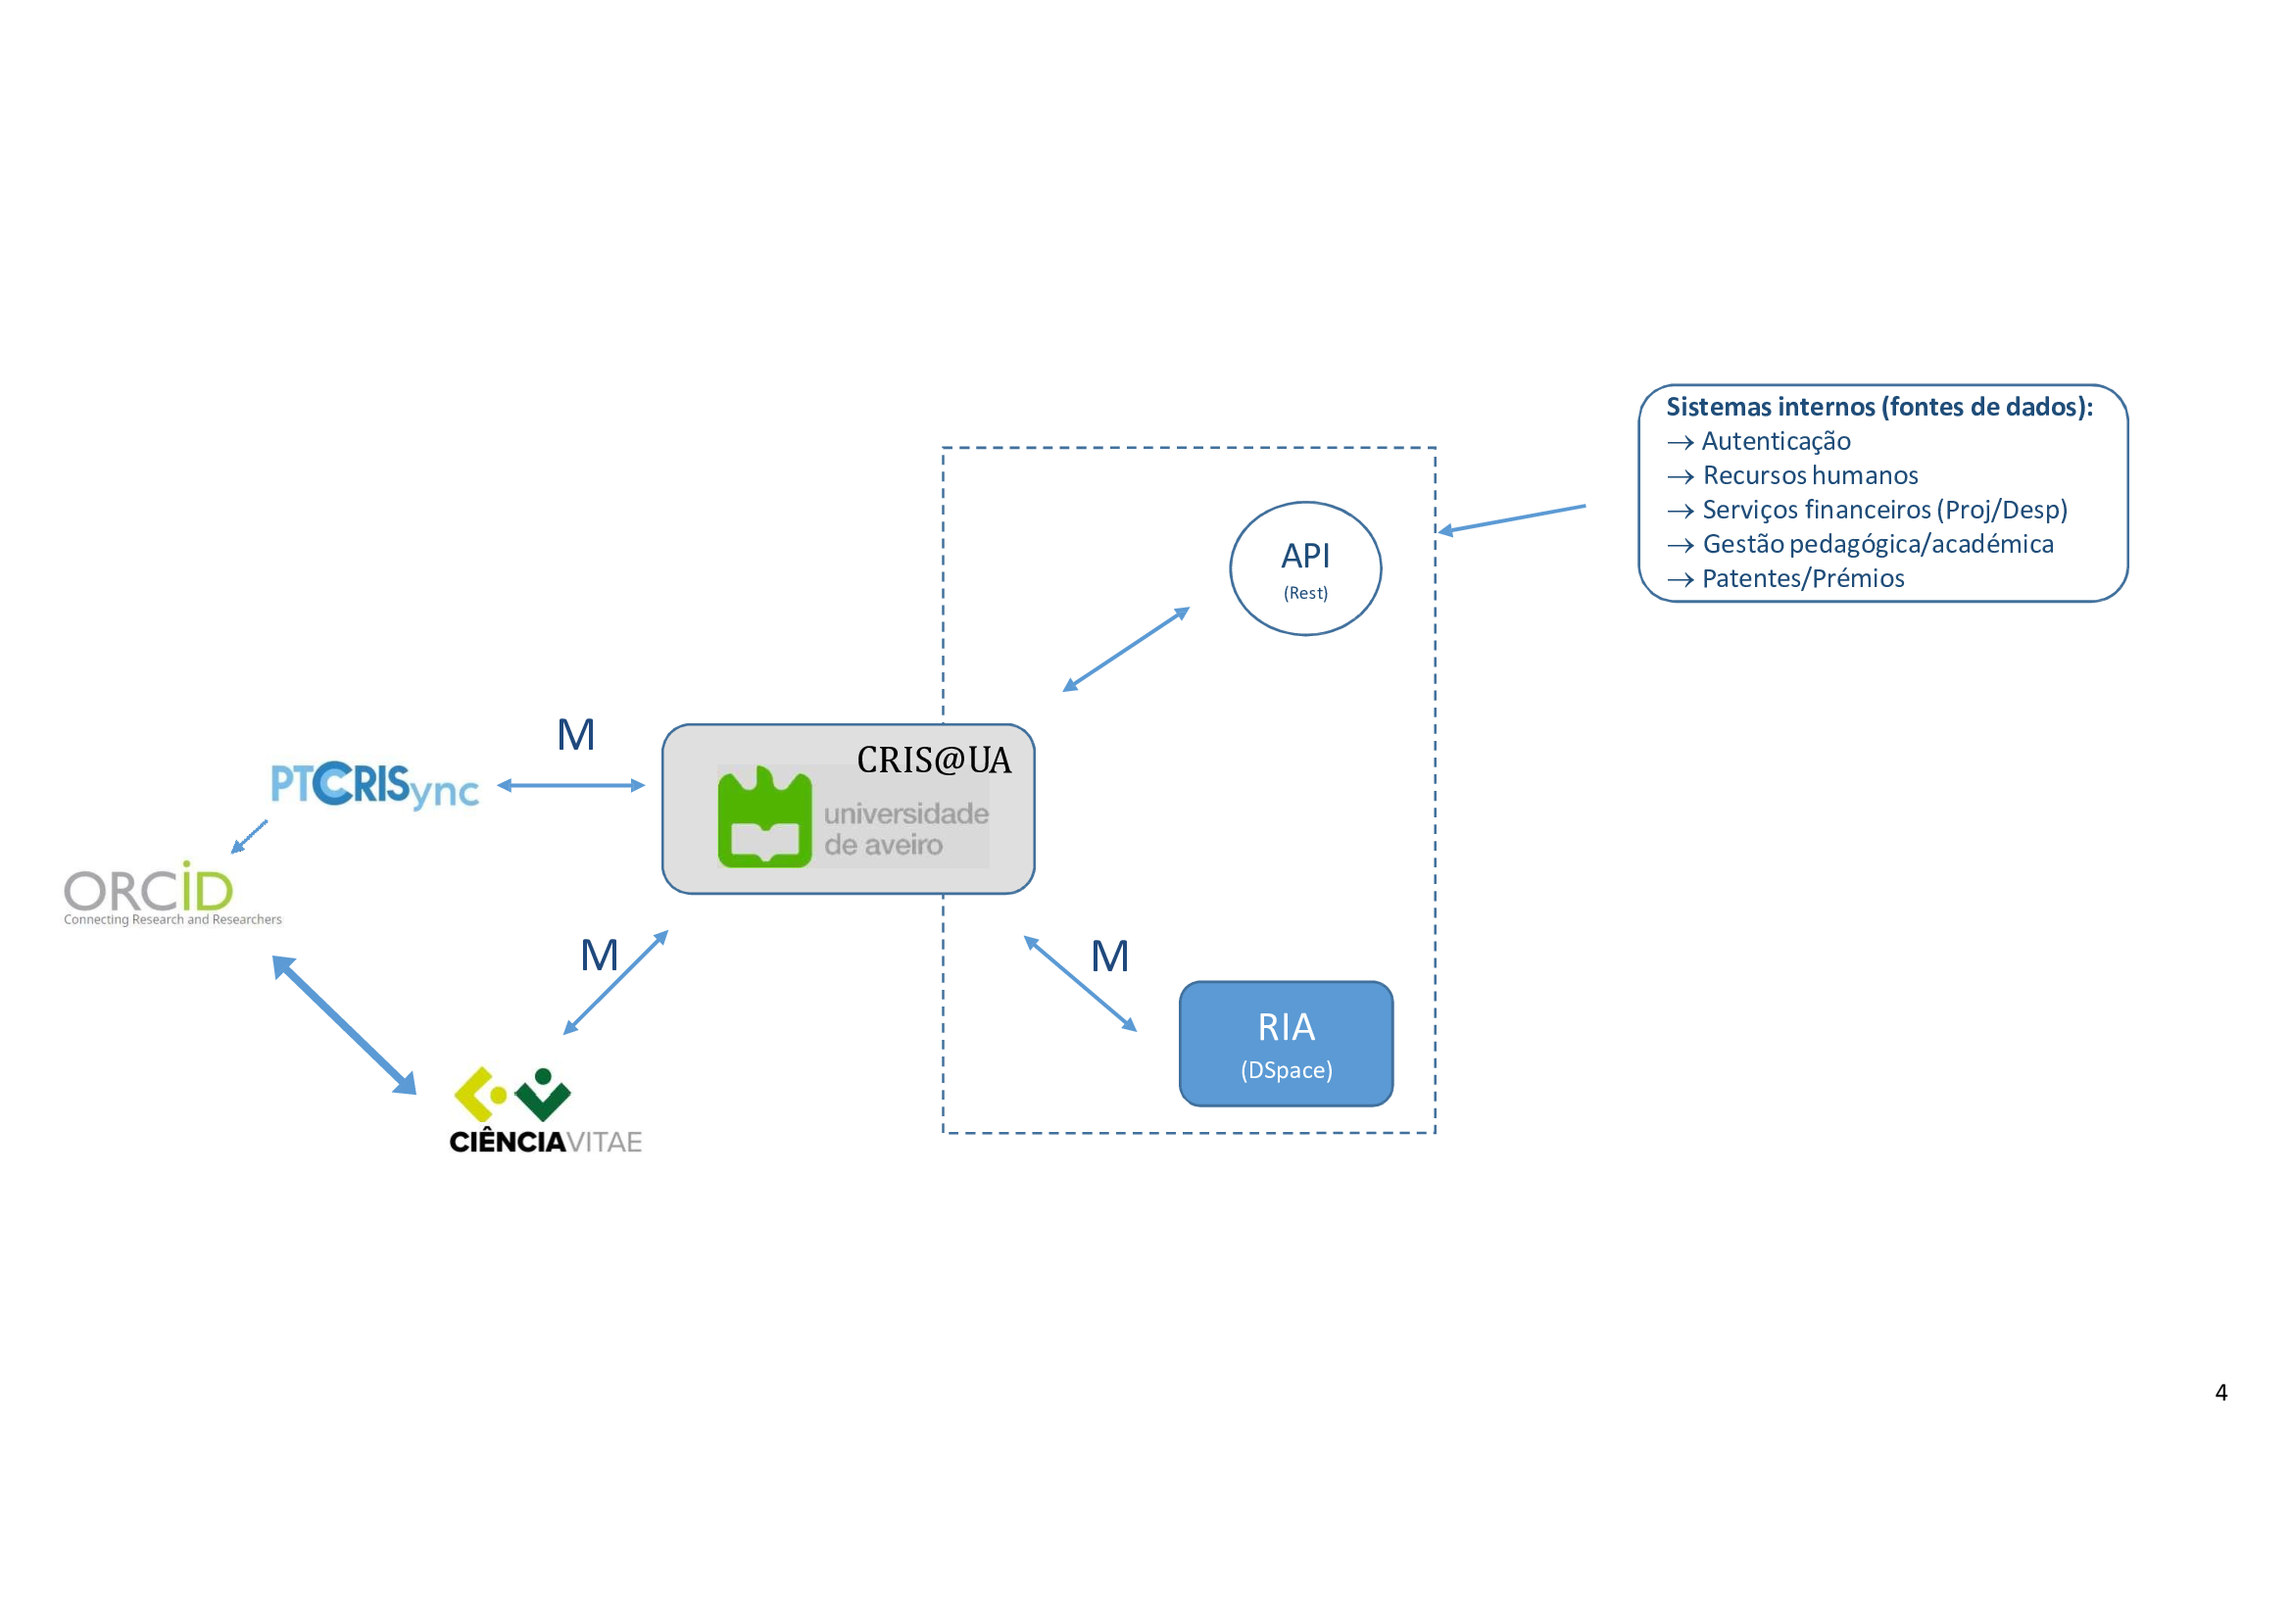
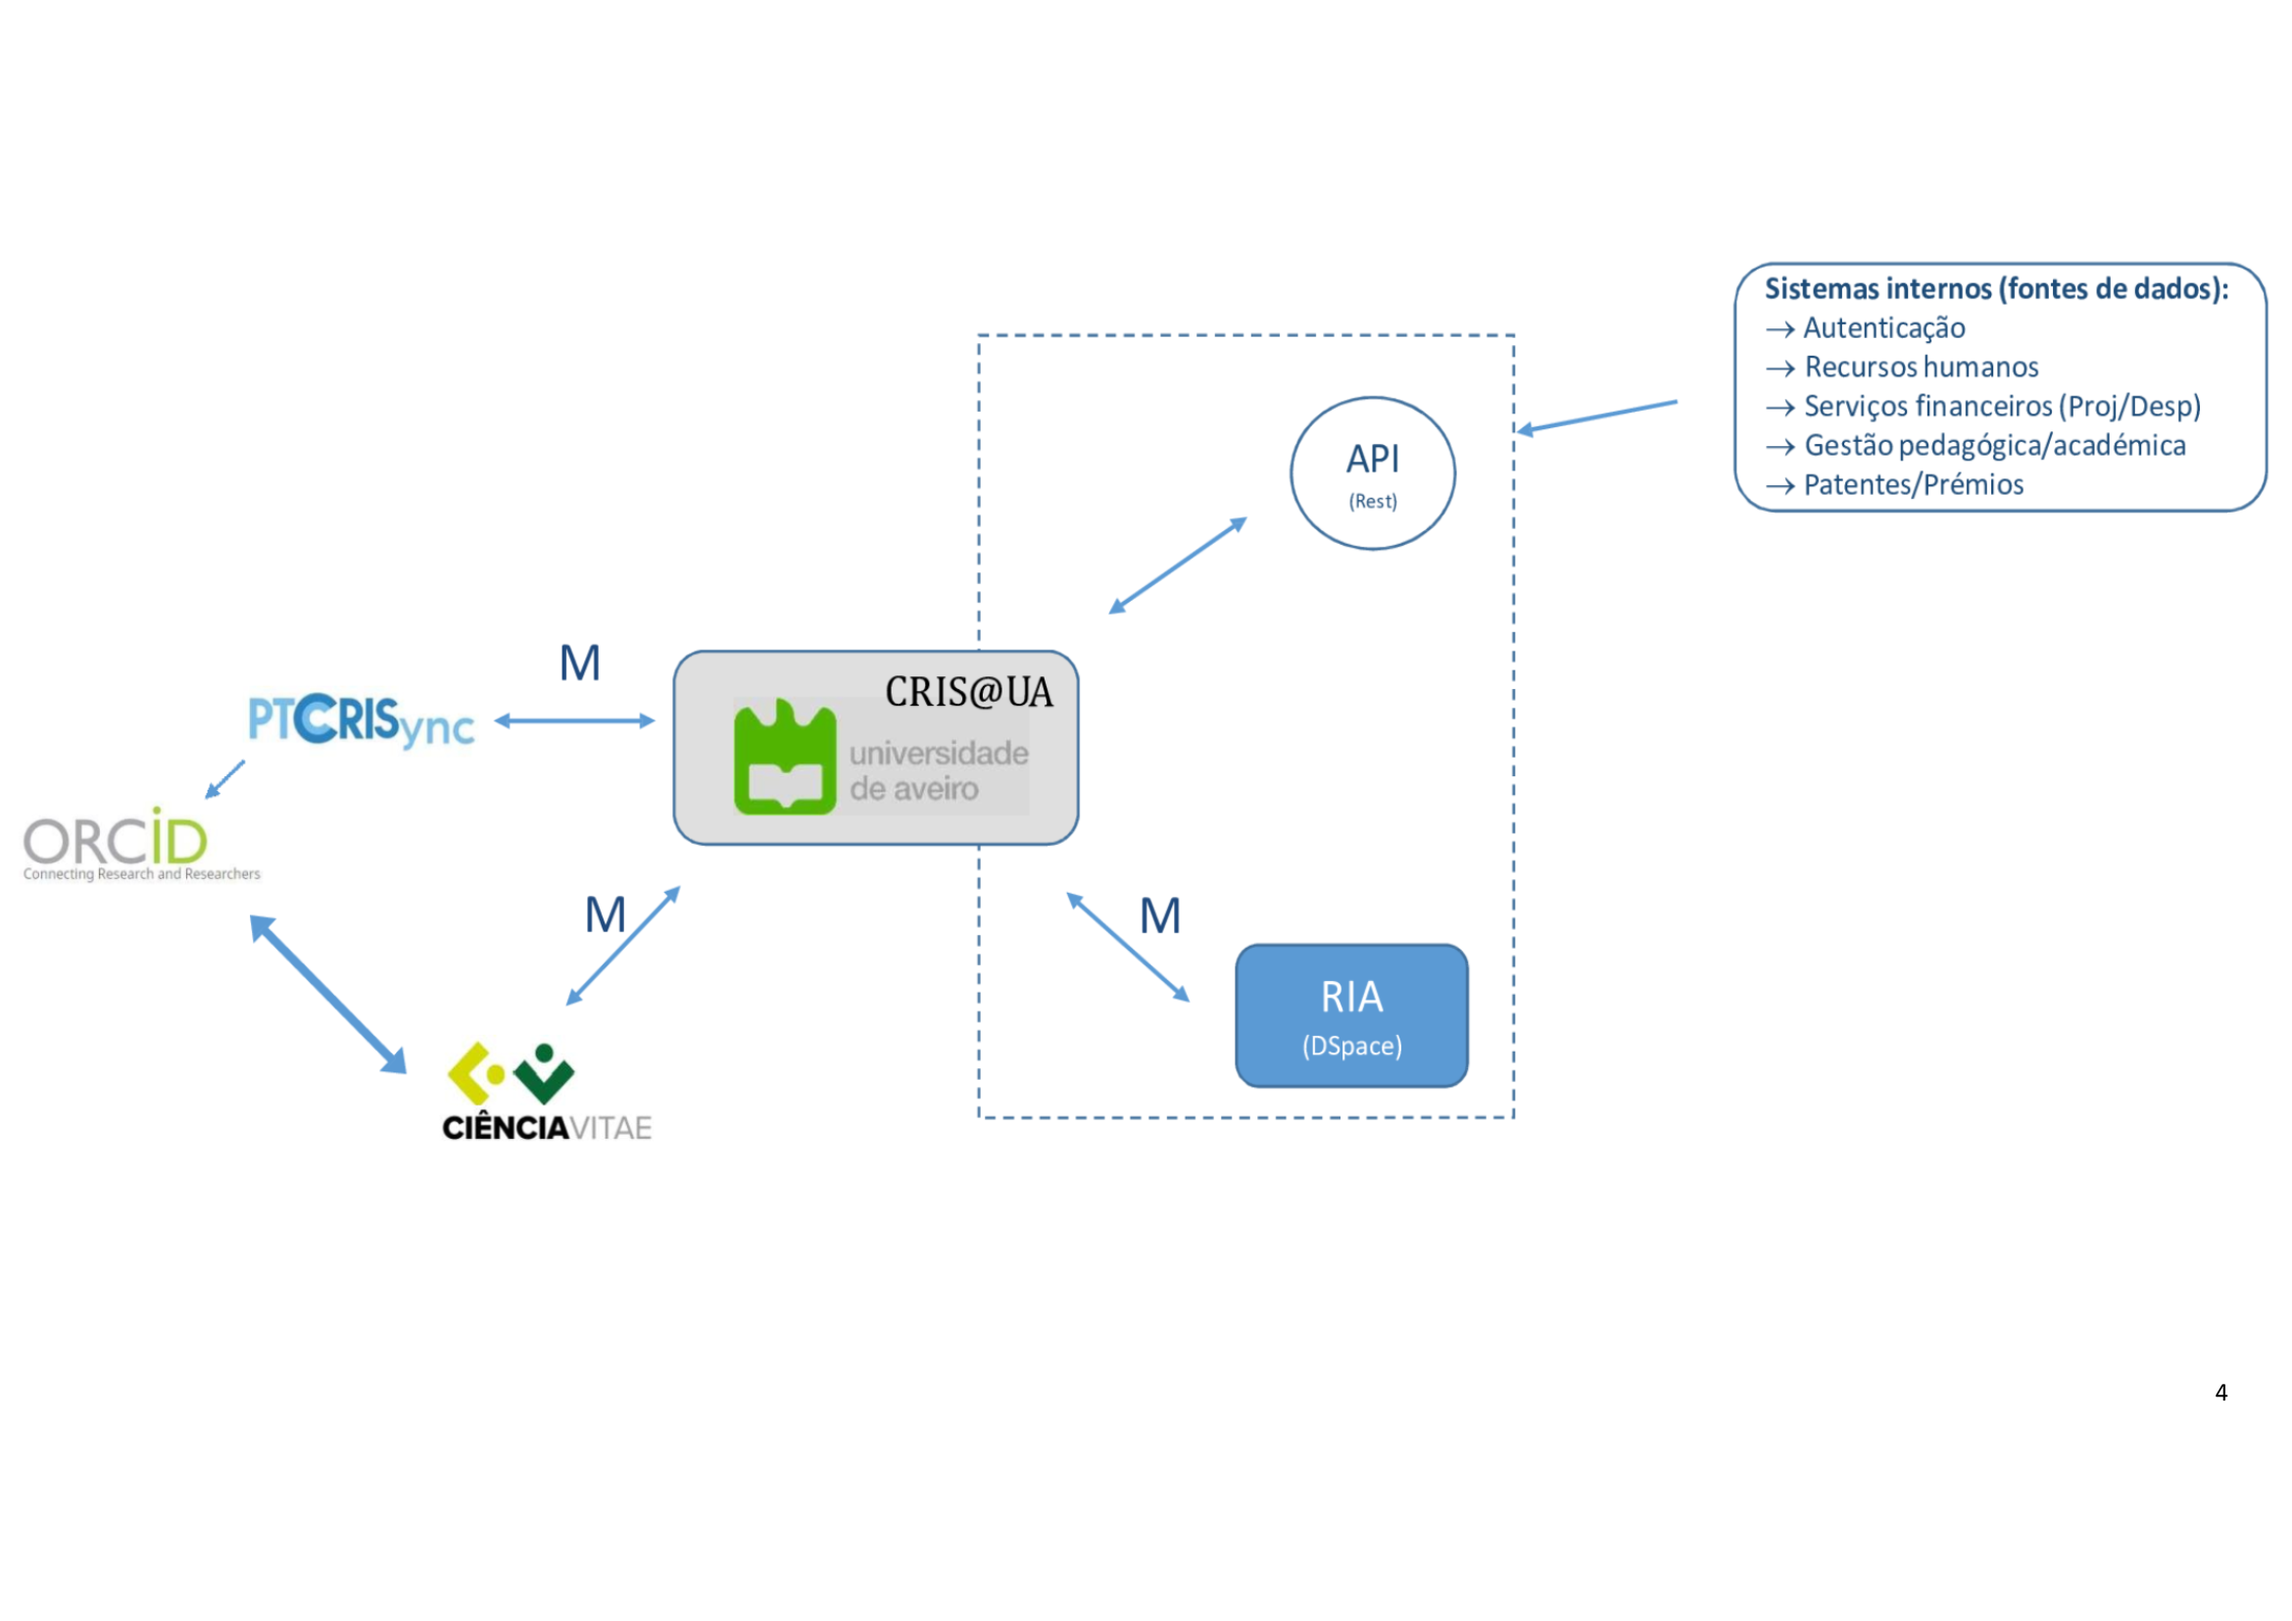
Atualização de imagem e aumento de horas

diff --git a/docs/index.html b/docs/index.html
@@ -276,9 +276,9 @@
 				</figure>
 
 				<figure class="mix work-item scheme">
-					<img src="img/arquiteturaV20.png" alt="">
+					<img src="img/arquiteturaV20_2.png" alt="">
 					<figcaption class="overlay">
-						<a class="fancybox" rel="works" title="Scheme" href="img/arquiteturaV20.png"><i class="fa fa-eye fa-lg"></i></a>
+						<a class="fancybox" rel="works" title="Scheme" href="img/arquiteturaV20_2.png"><i class="fa fa-eye fa-lg"></i></a>
 						<h4>Architecture</h4>
 						<p>Scheme</p>
 					</figcaption>
@@ -522,7 +522,7 @@
 						<div class="col-md-3 col-sm-6 col-xs-12 text-center wow fadeInUp animated" data-wow-duration="500ms">
 							<div class="counters-item">
 								<i class="fa fa-clock-o fa-3x"></i>
-								<strong data-to="50">0</strong>
+								<strong data-to="80">0</strong>
 								<p>Hours of Work</p>
 							</div>
 						</div>
